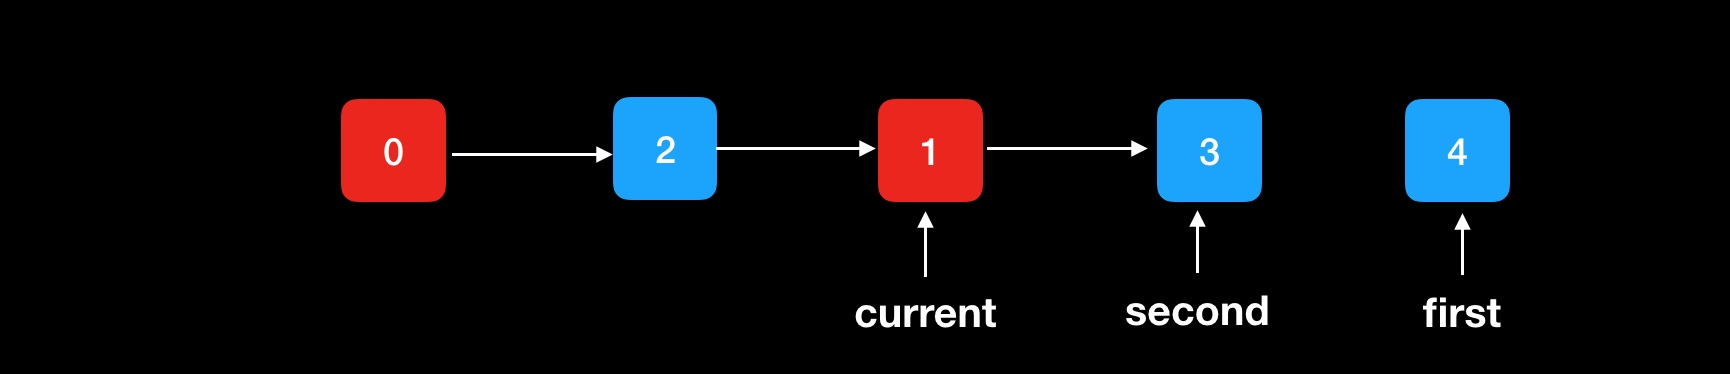
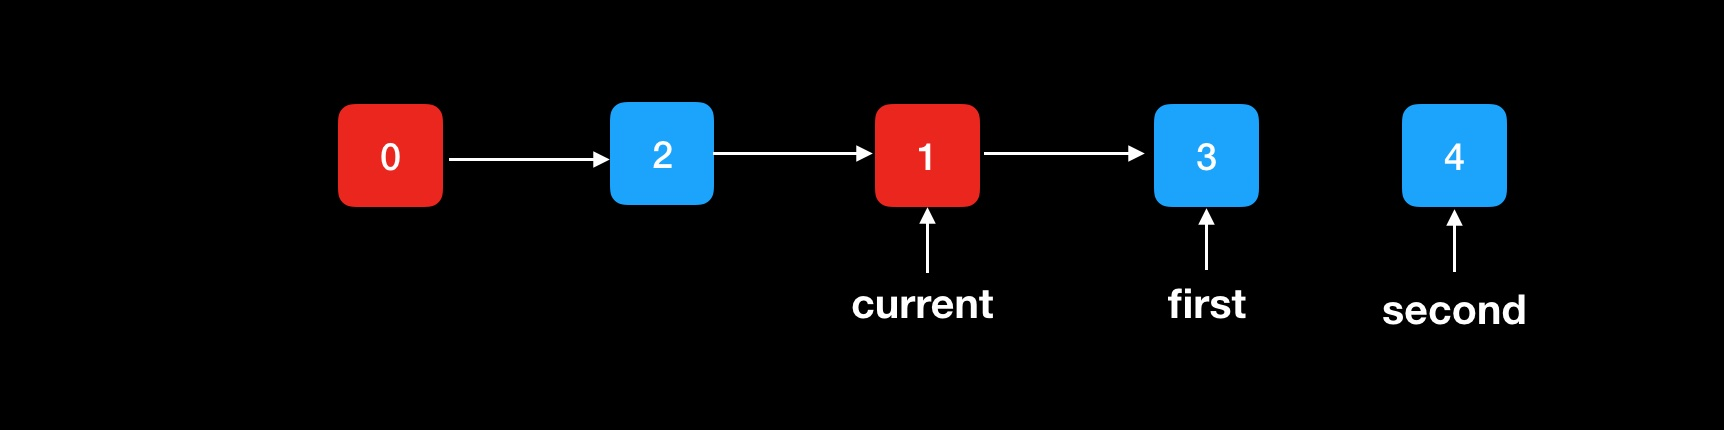
Site updated: 2019-05-08 11:10:13

diff --git a/2019/Swap Nodes In Pairs/index.html b/2019/Swap Nodes In Pairs/index.html
@@ -133,12 +133,14 @@
 <meta property="og:site_name" content="TizzyT&#39;s Blog">
 <meta property="og:description" content="题目描述（难度中等）Given a linked list, swap every two adjacent nodes and return its head. You may not modify the values in the list’s nodes, only nodes itself may be changed. Example: 1Given 1-&amp;gt;2-&amp;gt;3-&amp;gt">
 <meta property="og:locale" content="default">
-<meta property="og:image" content="https://arthornye.github.io/images/swapping.png">
-<meta property="og:updated_time" content="2019-05-08T02:55:59.050Z">
+<meta property="og:image" content="https://arthornye.github.io/images/swapping.jpg">
+<meta property="og:image" content="https://arthornye.github.io/images/swappingonce.jpg">
+<meta property="og:image" content="https://arthornye.github.io/images/swappingtwice.jpg">
+<meta property="og:updated_time" content="2019-05-08T03:07:03.722Z">
 <meta name="twitter:card" content="summary">
 <meta name="twitter:title" content="Swap Nodes In Pairs">
 <meta name="twitter:description" content="题目描述（难度中等）Given a linked list, swap every two adjacent nodes and return its head. You may not modify the values in the list’s nodes, only nodes itself may be changed. Example: 1Given 1-&amp;gt;2-&amp;gt;3-&amp;gt">
-<meta name="twitter:image" content="https://arthornye.github.io/images/swapping.png">
+<meta name="twitter:image" content="https://arthornye.github.io/images/swapping.jpg">
 
 
 
@@ -443,7 +445,11 @@
 <p><strong>Example:</strong></p>
 <figure class="highlight plain"><table><tr><td class="gutter"><pre><span class="line">1</span><br></pre></td><td class="code"><pre><span class="line">Given 1-&gt;2-&gt;3-&gt;4, you should return the list as 2-&gt;1-&gt;4-&gt;3.</span><br></pre></td></tr></table></figure>
 <h3 id="方法一：遍历一遍链表"><a href="#方法一：遍历一遍链表" class="headerlink" title="方法一：遍历一遍链表"></a>方法一：遍历一遍链表</h3><p>链表改变顺序的题目，通用的方法论是先找出一次需要改变指向的节点数量。交换相邻节点需要改变<strong>current（相邻节点前节点的前节点），first（相邻节点前节点），second（相邻节点后节点）。</strong>current在链表头部自定义一个初始值为0的节点。</p>
-<p><img src="https://arthornye.github.io/images/swapping.png" alt="cmd-markdown-logo"></p>
+<p><img src="https://arthornye.github.io/images/swapping.jpg" alt="cmd-markdown-logo"></p>
+<p><strong>上图中展示了链表指向的过程，三个节点都需要进行重定向，一次循环后的结果：</strong></p>
+<p><img src="https://arthornye.github.io/images/swappingonce.jpg" alt="cmd-markdown-logo"></p>
+<p><strong>第二次循环继续将current往后平移两个单位，继续执行循环赋值：</strong></p>
+<p><img src="https://arthornye.github.io/images/swappingtwice.jpg" alt="cmd-markdown-logo"></p>
 
       
     </div>
